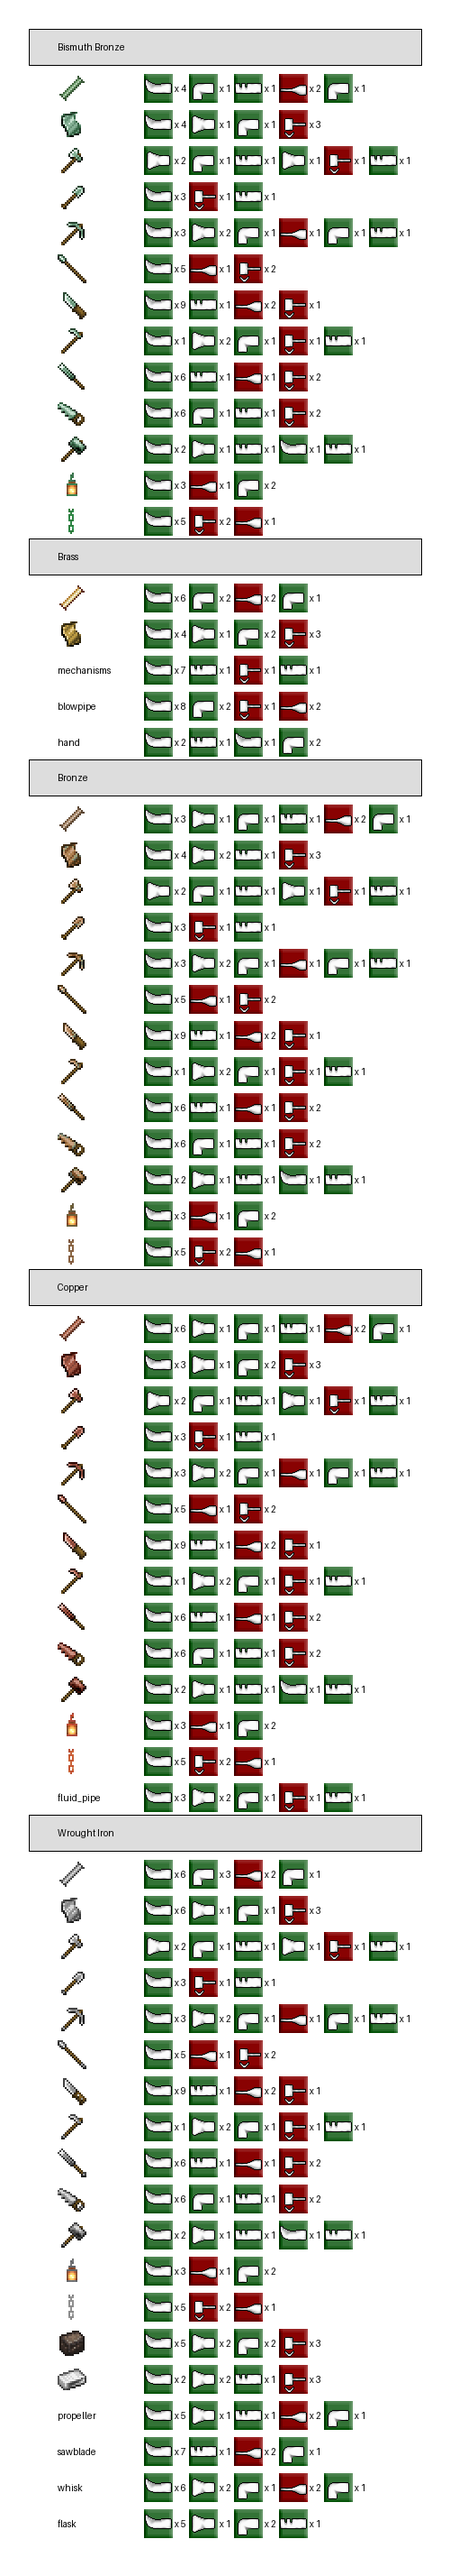
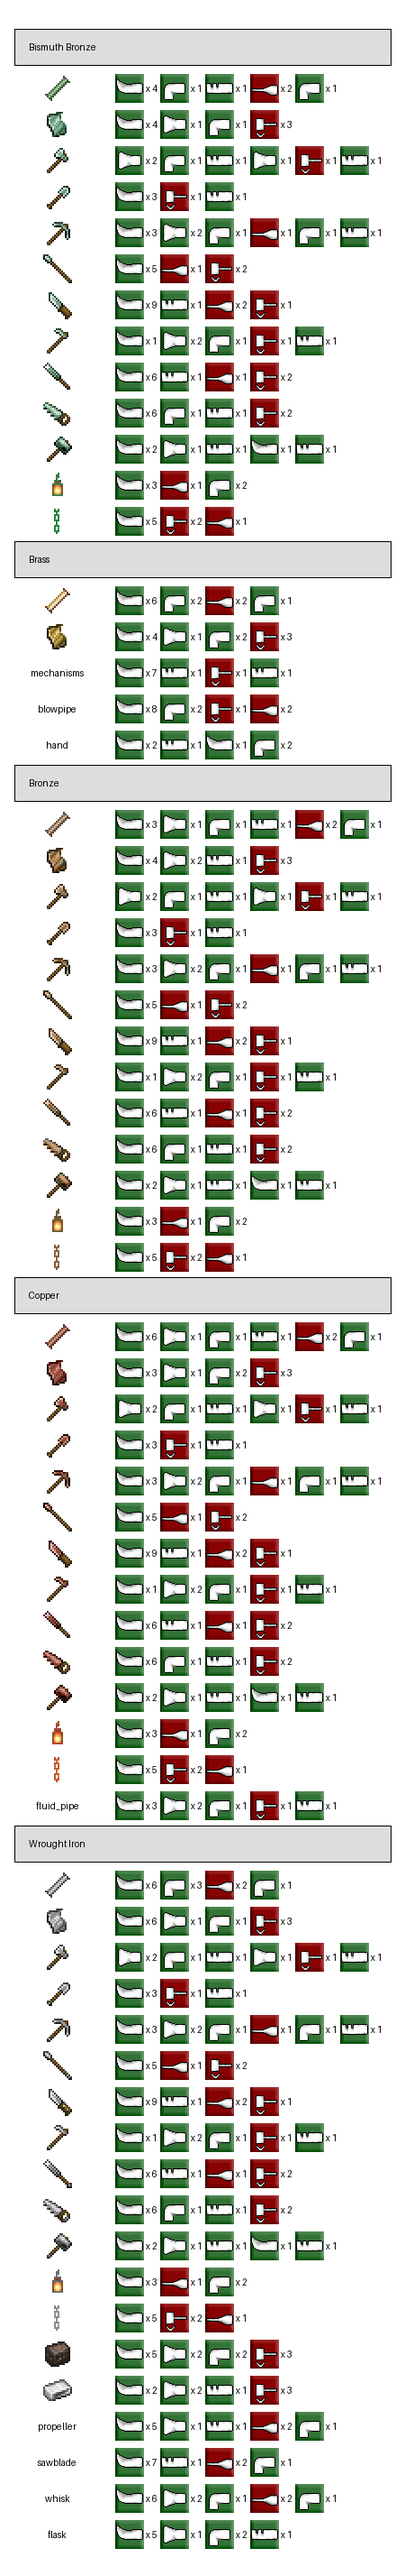
Style it more

diff --git a/smithtoimg.py b/smithtoimg.py
@@ -15,15 +15,12 @@ def load_operation_images():
     return operation_images
 
 specialImages = {
-    "wrought_iron": {
-        "refined_bloom": "icons/items/refined.png"
-    }
 }
 
 
 
 def generate_tool_sequence_image(solved_data, output_file="tools_sequence_visual.png"):
-    image_width = 500
+    image_width = 450
     header_height = 32
     row_height = 40
     margin = 32
@@ -52,12 +49,12 @@ def generate_tool_sequence_image(solved_data, output_file="tools_sequence_visual
 
     for metal, tools in solved_data.items():
         draw.rectangle(
-            [margin, y_offset, image_width - margin, y_offset + row_height],
+            [16, y_offset, image_width - 16, y_offset + row_height],
             fill="#dddddd",
             outline="black"
         )
         draw.text(
-            (margin * 2, y_offset + row_height // 2),
+            (32, y_offset + row_height // 2),
             metals[metal],
             fill="black",
             anchor="lm",
@@ -67,24 +64,28 @@ def generate_tool_sequence_image(solved_data, output_file="tools_sequence_visual
 
         for tool, sequence in tools.items():
             tool_img_path =  f"icons/items/metal/{tool.lower()}/{metal.lower()}.png"
+            tool_img2_path =  f"icons/items/{metal.lower()}-{tool.lower()}.png"
 
             if metal in specialImages and tool in specialImages[metal]:
                 tool_img_path = specialImages[metal][tool]
-
-            if os.path.exists(tool_img_path):
+            def add_image(tool_img_path):
                 tool_img = Image.open(tool_img_path).convert("RGBA").resize((32, 32), Image.Resampling.NEAREST)
-                tool_position = (margin * 2, y_offset + row_height // 4)
+                tool_position = (margin * 2 - 16, y_offset + row_height // 4)
                 tool_canvas.paste(tool_img, tool_position, tool_img)
+            if os.path.exists(tool_img_path):
+               add_image(tool_img_path)
+            elif os.path.exists(tool_img2_path):
+                add_image(tool_img2_path)
             else:
                 draw.text(
                     (margin * 2, y_offset + row_height // 4 + 16),
                     tool,
                     fill="black",
-                    anchor="lm",
+                    anchor="mm",
                     font=font
                 )
 
-            x_offset = margin * 5
+            x_offset = margin * 4
             sequence = compress_sequence(sequence)
             for step, count in sequence:
                 operation_img = operation_images[step]
@@ -103,7 +104,7 @@ def generate_tool_sequence_image(solved_data, output_file="tools_sequence_visual
 
             y_offset += row_height
 
-        y_offset += 5
+        y_offset += 8
 
     img = Image.alpha_composite(img, tool_canvas)
     img.save(output_file)
